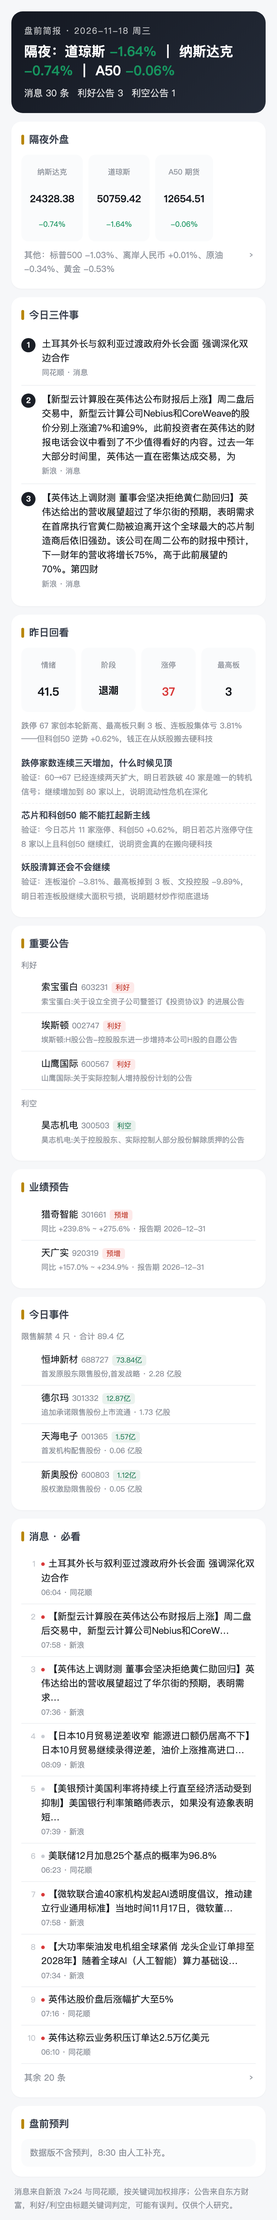
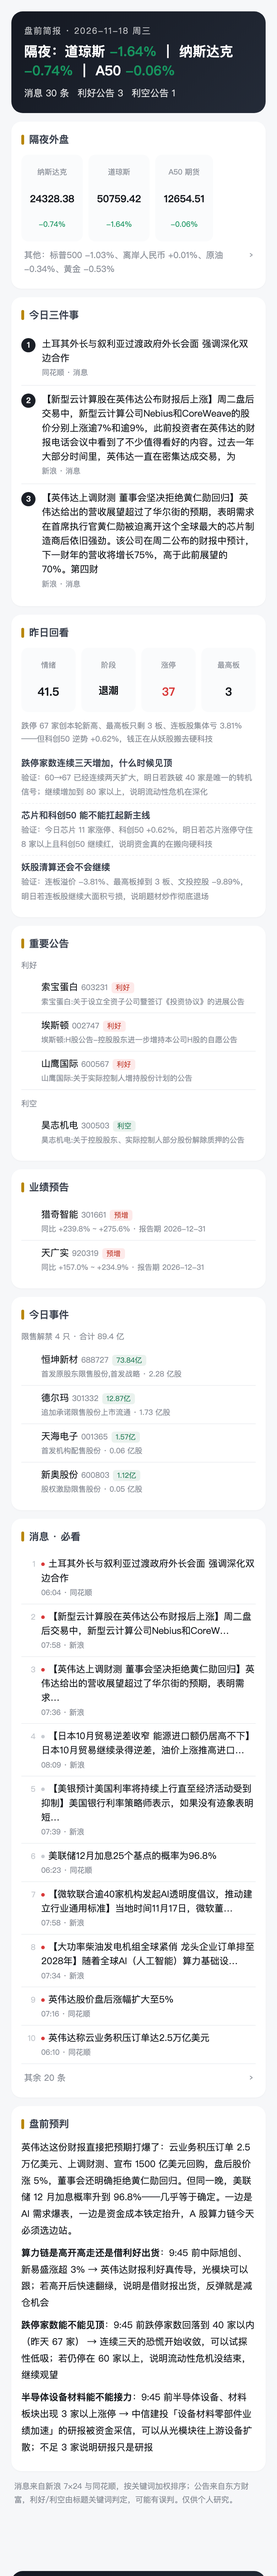
report: 2026-11-17

Changed region(s): [[0.0308, 0.0, 0.9538, 1.0], [0.5538, 0.5308, 0.6154, 0.562]]

diff --git a/pre/2026-11-18/2026-11-18-盘前.html b/pre/2026-11-18/2026-11-18-盘前.html
@@ -57,4 +57,4 @@ padding:9px 16px;font-size:12.5px;max-width:560px;margin:0 auto}
 .nav a{color:#8a8f98;text-decoration:none;white-space:nowrap}
 .nav a.on{color:#1b1f27;font-weight:700}
 .nav a.home{color:#b8860b;font-weight:600}
-</style><link rel="manifest" href="/a-share-review/manifest.webmanifest"><meta name="theme-color" content="#1b1f27"><meta name="apple-mobile-web-app-capable" content="yes"><meta name="apple-mobile-web-app-status-bar-style" content="black-translucent"><meta name="apple-mobile-web-app-title" content="A股复盘"><link rel="apple-touch-icon" href="/a-share-review/icon-192.png"></head><body><div class="nav"><a class="home" href="../../index.html">⌂ 首页</a><a class="on" href="../../pre/index.html">盘前简报</a></div><div class="wrap"><div class="hero"><div class="d">盘前简报 · 2026-11-18 周三</div><h1>隔夜：道琼斯 <b class="down">-1.64%</b> ｜ 纳斯达克 <b class="down">-0.74%</b> ｜ A50 <b class="down">-0.06%</b></h1><div class="sum"><span>消息 30 条</span><span>利好公告 3</span><span>利空公告 1</span></div></div><div class="card"><h2>隔夜外盘</h2><div class="ov"><div><div class="n">纳斯达克</div><div class="v">24328.38</div><div class="p down">-0.74%</div></div><div><div class="n">道琼斯</div><div class="v">50759.42</div><div class="p down">-1.64%</div></div><div><div class="n">A50 期货</div><div class="v">12654.51</div><div class="p down">-0.06%</div></div></div><details class="more"><summary><span>其他：标普500 -1.03%、离岸人民币 +0.01%、原油 -0.34%、黄金 -0.53%</span><span class="arw">›</span></summary><div class="ov" style="margin-top:8px"><div><div class="n">标普500</div><div class="v">7340.53</div><div class="p down">-1.03%</div></div><div><div class="n">离岸人民币</div><div class="v">6.67</div><div class="p up">+0.01%</div></div><div><div class="n">原油</div><div class="v">84.36</div><div class="p down">-0.34%</div></div><div><div class="n">黄金</div><div class="v">3843.55</div><div class="p down">-0.53%</div></div></div></details></div><div class="card"><h2>今日三件事</h2><div class="t3"><div class="n">1</div><div><div class="t">土耳其外长与叙利亚过渡政府外长会面 强调深化双边合作</div><div class="s">同花顺 · 消息</div></div></div><div class="t3"><div class="n">2</div><div><div class="t">【新型云计算股在英伟达公布财报后上涨】周二盘后交易中，新型云计算公司Nebius和CoreWeave的股价分别上涨逾7%和逾9%，此前投资者在英伟达的财报电话会议中看到了不少值得看好的内容。过去一年大部分时间里，英伟达一直在密集达成交易，为</div><div class="s">新浪 · 消息</div></div></div><div class="t3"><div class="n">3</div><div><div class="t">【英伟达上调财测 董事会坚决拒绝黄仁勋回归】英伟达给出的营收展望超过了华尔街的预期，表明需求在首席执行官黄仁勋被迫离开这个全球最大的芯片制造商后依旧强劲。该公司在周二公布的财报中预计，下一财年的营收将增长75%，高于此前展望的70%。第四财</div><div class="s">新浪 · 消息</div></div></div></div><div class="card"><h2>昨日回看</h2><div class="kv"><div><div class="n">情绪</div><div class="v">41.5</div></div><div><div class="n">阶段</div><div class="v" style="font-size:14px">退潮</div></div><div><div class="n">涨停</div><div class="v up">37</div></div><div><div class="n">最高板</div><div class="v">3</div></div></div><div class="note" style="margin-bottom:8px">跌停 67 家创本轮新高、最高板只剩 3 板、连板股集体亏 3.81%——但科创50 逆势 +0.62%，钱正在从妖股搬去硬科技</div><div class="watch"><b>跌停家数连续三天增加，什么时候见顶</b><br><span class="note">验证：60→67 已经连续两天扩大，明日若跌破 40 家是唯一的转机信号；继续增加到 80 家以上，说明流动性危机在深化</span></div><div class="watch"><b>芯片和科创50 能不能扛起新主线</b><br><span class="note">验证：今日芯片 11 家涨停、科创50 +0.62%，明日若芯片涨停守住 8 家以上且科创50 继续红，说明资金真的在搬向硬科技</span></div><div class="watch"><b>妖股清算还会不会继续</b><br><span class="note">验证：连板溢价 -3.81%、最高板掉到 3 板、文投控股 -9.89%，明日若连板股继续大面积亏损，说明题材炒作彻底退场</span></div></div><div class="card"><h2>重要公告</h2><div class="note" style="margin-bottom:4px">利好</div><div class="item"><div class="no"></div><div class="b"><div class="t">索宝蛋白 <span class="mut" style="font-size:11px">603231</span><span class="tag tag-good">利好</span></div><div class="m">索宝蛋白:关于设立全资子公司暨签订《投资协议》的进展公告</div></div></div><div class="item"><div class="no"></div><div class="b"><div class="t">埃斯顿 <span class="mut" style="font-size:11px">002747</span><span class="tag tag-good">利好</span></div><div class="m">埃斯顿:H股公告-控股股东进一步增持本公司H股的自愿公告</div></div></div><div class="item"><div class="no"></div><div class="b"><div class="t">山鹰国际 <span class="mut" style="font-size:11px">600567</span><span class="tag tag-good">利好</span></div><div class="m">山鹰国际:关于实际控制人增持股份计划的公告</div></div></div><div class="note" style="margin:10px 0 4px">利空</div><div class="item"><div class="no"></div><div class="b"><div class="t">昊志机电 <span class="mut" style="font-size:11px">300503</span><span class="tag tag-bad">利空</span></div><div class="m">昊志机电:关于控股股东、实际控制人部分股份解除质押的公告</div></div></div></div><div class="card"><h2>业绩预告</h2><div class="item"><div class="no"></div><div class="b"><div class="t">猎奇智能 <span class="mut" style="font-size:11px">301661</span><span class="tag tag-good">预增</span></div><div class="m">同比 +239.8% ~ +275.6% · 报告期 2026-12-31</div></div></div><div class="item"><div class="no"></div><div class="b"><div class="t">天广实 <span class="mut" style="font-size:11px">920319</span><span class="tag tag-good">预增</span></div><div class="m">同比 +157.0% ~ +234.9% · 报告期 2026-12-31</div></div></div></div><div class="card"><h2>今日事件</h2><div class="note" style="margin-bottom:6px">限售解禁 4 只 · 合计 89.4 亿</div><div class="item"><div class="no"></div><div class="b"><div class="t">恒坤新材 <span class="mut" style="font-size:11px">688727</span><span class="tag tag-bad">73.84亿</span></div><div class="m">首发原股东限售股份,首发战略 · 2.28 亿股</div></div></div><div class="item"><div class="no"></div><div class="b"><div class="t">德尔玛 <span class="mut" style="font-size:11px">301332</span><span class="tag tag-bad">12.87亿</span></div><div class="m">追加承诺限售股份上市流通 · 1.73 亿股</div></div></div><div class="item"><div class="no"></div><div class="b"><div class="t">天海电子 <span class="mut" style="font-size:11px">001365</span><span class="tag tag-bad">1.57亿</span></div><div class="m">首发机构配售股份 · 0.06 亿股</div></div></div><div class="item"><div class="no"></div><div class="b"><div class="t">新奥股份 <span class="mut" style="font-size:11px">600803</span><span class="tag tag-bad">1.12亿</span></div><div class="m">股权激励限售股份 · 0.05 亿股</div></div></div></div><div class="card"><h2>消息 · 必看</h2><div class="item"><div class="no">1</div><div class="b"><div class="t"><span class="dot g"></span>土耳其外长与叙利亚过渡政府外长会面 强调深化双边合作</div><div class="m">06:04 · 同花顺</div></div></div><div class="item"><div class="no">2</div><div class="b"><div class="t"><span class="dot g"></span>【新型云计算股在英伟达公布财报后上涨】周二盘后交易中，新型云计算公司Nebius和CoreW…</div><div class="m">07:58 · 新浪</div></div></div><div class="item"><div class="no">3</div><div class="b"><div class="t"><span class="dot g"></span>【英伟达上调财测 董事会坚决拒绝黄仁勋回归】英伟达给出的营收展望超过了华尔街的预期，表明需求…</div><div class="m">07:36 · 新浪</div></div></div><div class="item"><div class="no">4</div><div class="b"><div class="t"><span class="dot n"></span>【日本10月贸易逆差收窄 能源进口额仍居高不下】日本10月贸易继续录得逆差，油价上涨推高进口…</div><div class="m">08:09 · 新浪</div></div></div><div class="item"><div class="no">5</div><div class="b"><div class="t"><span class="dot n"></span>【美银预计美国利率将持续上行直至经济活动受到抑制】美国银行利率策略师表示，如果没有迹象表明短…</div><div class="m">07:39 · 新浪</div></div></div><div class="item"><div class="no">6</div><div class="b"><div class="t"><span class="dot n"></span>美联储12月加息25个基点的概率为96.8%</div><div class="m">06:23 · 同花顺</div></div></div><div class="item"><div class="no">7</div><div class="b"><div class="t"><span class="dot g"></span>【微软联合逾40家机构发起AI透明度倡议，推动建立行业通用标准】当地时间11月17日，微软董…</div><div class="m">07:58 · 新浪</div></div></div><div class="item"><div class="no">8</div><div class="b"><div class="t"><span class="dot g"></span>【大功率柴油发电机组全球紧俏 龙头企业订单排至2028年】随着全球AI（人工智能）算力基础设…</div><div class="m">07:34 · 新浪</div></div></div><div class="item"><div class="no">9</div><div class="b"><div class="t"><span class="dot g"></span>英伟达股价盘后涨幅扩大至5%</div><div class="m">07:16 · 同花顺</div></div></div><div class="item"><div class="no">10</div><div class="b"><div class="t"><span class="dot g"></span>英伟达称云业务积压订单达2.5万亿美元</div><div class="m">06:10 · 同花顺</div></div></div><details class="more"><summary><span>其余 20 条</span><span class="arw">›</span></summary><div class="item"><div class="no">11</div><div class="b"><div class="t"><span class="dot g"></span>英伟达董事会批准增加1500亿美元股票回购计划</div><div class="m">05:29 · 同花顺</div></div></div><div class="item"><div class="no">12</div><div class="b"><div class="t"><span class="dot b2"></span>【中信建投：半导体设备、材料、零部件板块业绩有望加速】中信建投研报称，2026年前三季度电子…</div><div class="m">07:47 · 新浪 · 同源 3 条</div></div></div><div class="item"><div class="no">13</div><div class="b"><div class="t"><span class="dot n"></span>【微软CEO盛赞黄仁勋，回应大规模服务中断和员工买断计划】微软CEO萨蒂亚·纳德拉在周二一次…</div><div class="m">08:19 · 新浪</div></div></div><div class="item"><div class="no">14</div><div class="b"><div class="t"><span class="dot n"></span>【阿波罗CEO警告：新云公司融资渠道或&quot;消失&quot;】阿波罗全球管理CEO马克·罗恩（Marc R…</div><div class="m">08:19 · 新浪</div></div></div><div class="item"><div class="no">15</div><div class="b"><div class="t"><span class="dot n"></span>韩国KOSPI上涨3.3%，英伟达业绩推动芯片股走强。</div><div class="m">08:15 · 新浪</div></div></div><div class="item"><div class="no">16</div><div class="b"><div class="t"><span class="dot n"></span>【英伟达财务担保和供应承诺大幅增加】英伟达表示，过去三个月，为确保其芯片所需的存储芯片和其他…</div><div class="m">07:29 · 新浪</div></div></div><div class="item"><div class="no">17</div><div class="b"><div class="t"><span class="dot n"></span>英伟达：主要前沿人工智能实验室今年预计将贡献公司数据中心业务营收的约15%</div><div class="m">06:21 · 同花顺 · 同源 4 条</div></div></div><div class="item"><div class="no">18</div><div class="b"><div class="t"><span class="dot n"></span>英伟达财报带动美股AI硬件板块盘后走高</div><div class="m">05:50 · 同花顺</div></div></div><div class="item"><div class="no">19</div><div class="b"><div class="t"><span class="dot n"></span>美股AI新云（Neocloud）公司CoreWeave、Nebius盘后均涨超5%</div><div class="m">05:42 · 同花顺</div></div></div><div class="item"><div class="no">20</div><div class="b"><div class="t"><span class="dot n"></span>美股收评：美股三大指数集体收跌 光通信股逆势小幅上扬</div><div class="m">05:01 · 同花顺</div></div></div><div class="item"><div class="no">21</div><div class="b"><div class="t"><span class="dot g"></span>【和铂医药：CRHX-101项目分拆至Adrenyx，后者预期2027年上半年在纳斯达克上市…</div><div class="m">08:17 · 新浪</div></div></div><div class="item"><div class="no">22</div><div class="b"><div class="t"><span class="dot b2"></span>【花旗集团与一名董事总经理就纵容性骚扰指控达成和解】花旗集团与一名董事总经理就一宗备受关注的…</div><div class="m">07:49 · 新浪</div></div></div><div class="item"><div class="no">23</div><div class="b"><div class="t"><span class="dot g"></span>【高盛预计明年新兴市场债券总回报将达10%】高盛预测，2027年新兴市场固定收益资产将实现约…</div><div class="m">07:44 · 新浪 · 同源 2 条</div></div></div><div class="item"><div class="no">24</div><div class="b"><div class="t"><span class="dot g"></span>【新加坡总理黄循财人民日报撰文：新中携手，共创开放互联的未来】当今世界局势充满不确定性，分化…</div><div class="m">07:33 · 新浪</div></div></div><div class="item"><div class="no">25</div><div class="b"><div class="t"><span class="dot g"></span>上市公募REITs“破百”近在咫尺 行业迎来提质深耕窗口期</div><div class="m">06:43 · 同花顺</div></div></div><div class="item"><div class="no">26</div><div class="b"><div class="t"><span class="dot n"></span>【华泰证券：互联网行业关注纯工具类平台和硬切软逻辑】华泰证券发布互联网行业研报称，互联网行业…</div><div class="m">08:16 · 新浪 · 同源 2 条</div></div></div><div class="item"><div class="no">27</div><div class="b"><div class="t"><span class="dot n"></span>SK海力士领涨韩国芯片股。SK海力士股价早盘上涨5.7%，报1,161,000韩元。三星电子…</div><div class="m">08:08 · 新浪</div></div></div><div class="item"><div class="no">28</div><div class="b"><div class="t"><span class="dot n"></span>【OpenAI发布GPT-6.2 Astra和Sol，强化专业工作与日常任务能力】当地时间1…</div><div class="m">07:44 · 新浪</div></div></div><div class="item"><div class="no">29</div><div class="b"><div class="t"><span class="dot n"></span>英伟达临时CEO克雷斯：我们现在想的是发展我们的业务。</div><div class="m">07:49 · 新浪 · 同源 5 条</div></div></div><div class="item"><div class="no">30</div><div class="b"><div class="t"><span class="dot n"></span>英伟达临时首席执行官：客户们未离弃公司。任何类型的客户都在发生变化的说法是不真实的。</div><div class="m">07:46 · 新浪</div></div></div></details></div><div class="card"><h2>盘前预判</h2><div class="empty">数据版不含预判，8:30 由人工补充。</div></div><div class="note" style="padding:0 4px">消息来自新浪 7×24 与同花顺，按关键词加权排序；公告来自东方财富，利好/利空由标题关键词判定，可能有误判。仅供个人研究。</div></div></body></html>
+</style><link rel="manifest" href="/a-share-review/manifest.webmanifest"><meta name="theme-color" content="#1b1f27"><meta name="apple-mobile-web-app-capable" content="yes"><meta name="apple-mobile-web-app-status-bar-style" content="black-translucent"><meta name="apple-mobile-web-app-title" content="A股复盘"><link rel="apple-touch-icon" href="/a-share-review/icon-192.png"></head><body><div class="nav"><a class="home" href="../../index.html">⌂ 首页</a><a class="on" href="../../pre/index.html">盘前简报</a></div><div class="wrap"><div class="hero"><div class="d">盘前简报 · 2026-11-18 周三</div><h1>隔夜：道琼斯 <b class="down">-1.64%</b> ｜ 纳斯达克 <b class="down">-0.74%</b> ｜ A50 <b class="down">-0.06%</b></h1><div class="sum"><span>消息 30 条</span><span>利好公告 3</span><span>利空公告 1</span></div></div><div class="card"><h2>隔夜外盘</h2><div class="ov"><div><div class="n">纳斯达克</div><div class="v">24328.38</div><div class="p down">-0.74%</div></div><div><div class="n">道琼斯</div><div class="v">50759.42</div><div class="p down">-1.64%</div></div><div><div class="n">A50 期货</div><div class="v">12654.51</div><div class="p down">-0.06%</div></div></div><details class="more"><summary><span>其他：标普500 -1.03%、离岸人民币 +0.01%、原油 -0.34%、黄金 -0.53%</span><span class="arw">›</span></summary><div class="ov" style="margin-top:8px"><div><div class="n">标普500</div><div class="v">7340.53</div><div class="p down">-1.03%</div></div><div><div class="n">离岸人民币</div><div class="v">6.67</div><div class="p up">+0.01%</div></div><div><div class="n">原油</div><div class="v">84.36</div><div class="p down">-0.34%</div></div><div><div class="n">黄金</div><div class="v">3843.55</div><div class="p down">-0.53%</div></div></div></details></div><div class="card"><h2>今日三件事</h2><div class="t3"><div class="n">1</div><div><div class="t">土耳其外长与叙利亚过渡政府外长会面 强调深化双边合作</div><div class="s">同花顺 · 消息</div></div></div><div class="t3"><div class="n">2</div><div><div class="t">【新型云计算股在英伟达公布财报后上涨】周二盘后交易中，新型云计算公司Nebius和CoreWeave的股价分别上涨逾7%和逾9%，此前投资者在英伟达的财报电话会议中看到了不少值得看好的内容。过去一年大部分时间里，英伟达一直在密集达成交易，为</div><div class="s">新浪 · 消息</div></div></div><div class="t3"><div class="n">3</div><div><div class="t">【英伟达上调财测 董事会坚决拒绝黄仁勋回归】英伟达给出的营收展望超过了华尔街的预期，表明需求在首席执行官黄仁勋被迫离开这个全球最大的芯片制造商后依旧强劲。该公司在周二公布的财报中预计，下一财年的营收将增长75%，高于此前展望的70%。第四财</div><div class="s">新浪 · 消息</div></div></div></div><div class="card"><h2>昨日回看</h2><div class="kv"><div><div class="n">情绪</div><div class="v">41.5</div></div><div><div class="n">阶段</div><div class="v" style="font-size:14px">退潮</div></div><div><div class="n">涨停</div><div class="v up">37</div></div><div><div class="n">最高板</div><div class="v">3</div></div></div><div class="note" style="margin-bottom:8px">跌停 67 家创本轮新高、最高板只剩 3 板、连板股集体亏 3.81%——但科创50 逆势 +0.62%，钱正在从妖股搬去硬科技</div><div class="watch"><b>跌停家数连续三天增加，什么时候见顶</b><br><span class="note">验证：60→67 已经连续两天扩大，明日若跌破 40 家是唯一的转机信号；继续增加到 80 家以上，说明流动性危机在深化</span></div><div class="watch"><b>芯片和科创50 能不能扛起新主线</b><br><span class="note">验证：今日芯片 11 家涨停、科创50 +0.62%，明日若芯片涨停守住 8 家以上且科创50 继续红，说明资金真的在搬向硬科技</span></div><div class="watch"><b>妖股清算还会不会继续</b><br><span class="note">验证：连板溢价 -3.81%、最高板掉到 3 板、文投控股 -9.89%，明日若连板股继续大面积亏损，说明题材炒作彻底退场</span></div></div><div class="card"><h2>重要公告</h2><div class="note" style="margin-bottom:4px">利好</div><div class="item"><div class="no"></div><div class="b"><div class="t">索宝蛋白 <span class="mut" style="font-size:11px">603231</span><span class="tag tag-good">利好</span></div><div class="m">索宝蛋白:关于设立全资子公司暨签订《投资协议》的进展公告</div></div></div><div class="item"><div class="no"></div><div class="b"><div class="t">埃斯顿 <span class="mut" style="font-size:11px">002747</span><span class="tag tag-good">利好</span></div><div class="m">埃斯顿:H股公告-控股股东进一步增持本公司H股的自愿公告</div></div></div><div class="item"><div class="no"></div><div class="b"><div class="t">山鹰国际 <span class="mut" style="font-size:11px">600567</span><span class="tag tag-good">利好</span></div><div class="m">山鹰国际:关于实际控制人增持股份计划的公告</div></div></div><div class="note" style="margin:10px 0 4px">利空</div><div class="item"><div class="no"></div><div class="b"><div class="t">昊志机电 <span class="mut" style="font-size:11px">300503</span><span class="tag tag-bad">利空</span></div><div class="m">昊志机电:关于控股股东、实际控制人部分股份解除质押的公告</div></div></div></div><div class="card"><h2>业绩预告</h2><div class="item"><div class="no"></div><div class="b"><div class="t">猎奇智能 <span class="mut" style="font-size:11px">301661</span><span class="tag tag-good">预增</span></div><div class="m">同比 +239.8% ~ +275.6% · 报告期 2026-12-31</div></div></div><div class="item"><div class="no"></div><div class="b"><div class="t">天广实 <span class="mut" style="font-size:11px">920319</span><span class="tag tag-good">预增</span></div><div class="m">同比 +157.0% ~ +234.9% · 报告期 2026-12-31</div></div></div></div><div class="card"><h2>今日事件</h2><div class="note" style="margin-bottom:6px">限售解禁 4 只 · 合计 89.4 亿</div><div class="item"><div class="no"></div><div class="b"><div class="t">恒坤新材 <span class="mut" style="font-size:11px">688727</span><span class="tag tag-bad">73.84亿</span></div><div class="m">首发原股东限售股份,首发战略 · 2.28 亿股</div></div></div><div class="item"><div class="no"></div><div class="b"><div class="t">德尔玛 <span class="mut" style="font-size:11px">301332</span><span class="tag tag-bad">12.87亿</span></div><div class="m">追加承诺限售股份上市流通 · 1.73 亿股</div></div></div><div class="item"><div class="no"></div><div class="b"><div class="t">天海电子 <span class="mut" style="font-size:11px">001365</span><span class="tag tag-bad">1.57亿</span></div><div class="m">首发机构配售股份 · 0.06 亿股</div></div></div><div class="item"><div class="no"></div><div class="b"><div class="t">新奥股份 <span class="mut" style="font-size:11px">600803</span><span class="tag tag-bad">1.12亿</span></div><div class="m">股权激励限售股份 · 0.05 亿股</div></div></div></div><div class="card"><h2>消息 · 必看</h2><div class="item"><div class="no">1</div><div class="b"><div class="t"><span class="dot g"></span>土耳其外长与叙利亚过渡政府外长会面 强调深化双边合作</div><div class="m">06:04 · 同花顺</div></div></div><div class="item"><div class="no">2</div><div class="b"><div class="t"><span class="dot g"></span>【新型云计算股在英伟达公布财报后上涨】周二盘后交易中，新型云计算公司Nebius和CoreW…</div><div class="m">07:58 · 新浪</div></div></div><div class="item"><div class="no">3</div><div class="b"><div class="t"><span class="dot g"></span>【英伟达上调财测 董事会坚决拒绝黄仁勋回归】英伟达给出的营收展望超过了华尔街的预期，表明需求…</div><div class="m">07:36 · 新浪</div></div></div><div class="item"><div class="no">4</div><div class="b"><div class="t"><span class="dot n"></span>【日本10月贸易逆差收窄 能源进口额仍居高不下】日本10月贸易继续录得逆差，油价上涨推高进口…</div><div class="m">08:09 · 新浪</div></div></div><div class="item"><div class="no">5</div><div class="b"><div class="t"><span class="dot n"></span>【美银预计美国利率将持续上行直至经济活动受到抑制】美国银行利率策略师表示，如果没有迹象表明短…</div><div class="m">07:39 · 新浪</div></div></div><div class="item"><div class="no">6</div><div class="b"><div class="t"><span class="dot n"></span>美联储12月加息25个基点的概率为96.8%</div><div class="m">06:23 · 同花顺</div></div></div><div class="item"><div class="no">7</div><div class="b"><div class="t"><span class="dot g"></span>【微软联合逾40家机构发起AI透明度倡议，推动建立行业通用标准】当地时间11月17日，微软董…</div><div class="m">07:58 · 新浪</div></div></div><div class="item"><div class="no">8</div><div class="b"><div class="t"><span class="dot g"></span>【大功率柴油发电机组全球紧俏 龙头企业订单排至2028年】随着全球AI（人工智能）算力基础设…</div><div class="m">07:34 · 新浪</div></div></div><div class="item"><div class="no">9</div><div class="b"><div class="t"><span class="dot g"></span>英伟达股价盘后涨幅扩大至5%</div><div class="m">07:16 · 同花顺</div></div></div><div class="item"><div class="no">10</div><div class="b"><div class="t"><span class="dot g"></span>英伟达称云业务积压订单达2.5万亿美元</div><div class="m">06:10 · 同花顺</div></div></div><details class="more"><summary><span>其余 20 条</span><span class="arw">›</span></summary><div class="item"><div class="no">11</div><div class="b"><div class="t"><span class="dot g"></span>英伟达董事会批准增加1500亿美元股票回购计划</div><div class="m">05:29 · 同花顺</div></div></div><div class="item"><div class="no">12</div><div class="b"><div class="t"><span class="dot b2"></span>【中信建投：半导体设备、材料、零部件板块业绩有望加速】中信建投研报称，2026年前三季度电子…</div><div class="m">07:47 · 新浪 · 同源 3 条</div></div></div><div class="item"><div class="no">13</div><div class="b"><div class="t"><span class="dot n"></span>【微软CEO盛赞黄仁勋，回应大规模服务中断和员工买断计划】微软CEO萨蒂亚·纳德拉在周二一次…</div><div class="m">08:19 · 新浪</div></div></div><div class="item"><div class="no">14</div><div class="b"><div class="t"><span class="dot n"></span>【阿波罗CEO警告：新云公司融资渠道或&quot;消失&quot;】阿波罗全球管理CEO马克·罗恩（Marc R…</div><div class="m">08:19 · 新浪</div></div></div><div class="item"><div class="no">15</div><div class="b"><div class="t"><span class="dot n"></span>韩国KOSPI上涨3.3%，英伟达业绩推动芯片股走强。</div><div class="m">08:15 · 新浪</div></div></div><div class="item"><div class="no">16</div><div class="b"><div class="t"><span class="dot n"></span>【英伟达财务担保和供应承诺大幅增加】英伟达表示，过去三个月，为确保其芯片所需的存储芯片和其他…</div><div class="m">07:29 · 新浪</div></div></div><div class="item"><div class="no">17</div><div class="b"><div class="t"><span class="dot n"></span>英伟达：主要前沿人工智能实验室今年预计将贡献公司数据中心业务营收的约15%</div><div class="m">06:21 · 同花顺 · 同源 4 条</div></div></div><div class="item"><div class="no">18</div><div class="b"><div class="t"><span class="dot n"></span>英伟达财报带动美股AI硬件板块盘后走高</div><div class="m">05:50 · 同花顺</div></div></div><div class="item"><div class="no">19</div><div class="b"><div class="t"><span class="dot n"></span>美股AI新云（Neocloud）公司CoreWeave、Nebius盘后均涨超5%</div><div class="m">05:42 · 同花顺</div></div></div><div class="item"><div class="no">20</div><div class="b"><div class="t"><span class="dot n"></span>美股收评：美股三大指数集体收跌 光通信股逆势小幅上扬</div><div class="m">05:01 · 同花顺</div></div></div><div class="item"><div class="no">21</div><div class="b"><div class="t"><span class="dot g"></span>【和铂医药：CRHX-101项目分拆至Adrenyx，后者预期2027年上半年在纳斯达克上市…</div><div class="m">08:17 · 新浪</div></div></div><div class="item"><div class="no">22</div><div class="b"><div class="t"><span class="dot b2"></span>【花旗集团与一名董事总经理就纵容性骚扰指控达成和解】花旗集团与一名董事总经理就一宗备受关注的…</div><div class="m">07:49 · 新浪</div></div></div><div class="item"><div class="no">23</div><div class="b"><div class="t"><span class="dot g"></span>【高盛预计明年新兴市场债券总回报将达10%】高盛预测，2027年新兴市场固定收益资产将实现约…</div><div class="m">07:44 · 新浪 · 同源 2 条</div></div></div><div class="item"><div class="no">24</div><div class="b"><div class="t"><span class="dot g"></span>【新加坡总理黄循财人民日报撰文：新中携手，共创开放互联的未来】当今世界局势充满不确定性，分化…</div><div class="m">07:33 · 新浪</div></div></div><div class="item"><div class="no">25</div><div class="b"><div class="t"><span class="dot g"></span>上市公募REITs“破百”近在咫尺 行业迎来提质深耕窗口期</div><div class="m">06:43 · 同花顺</div></div></div><div class="item"><div class="no">26</div><div class="b"><div class="t"><span class="dot n"></span>【华泰证券：互联网行业关注纯工具类平台和硬切软逻辑】华泰证券发布互联网行业研报称，互联网行业…</div><div class="m">08:16 · 新浪 · 同源 2 条</div></div></div><div class="item"><div class="no">27</div><div class="b"><div class="t"><span class="dot n"></span>SK海力士领涨韩国芯片股。SK海力士股价早盘上涨5.7%，报1,161,000韩元。三星电子…</div><div class="m">08:08 · 新浪</div></div></div><div class="item"><div class="no">28</div><div class="b"><div class="t"><span class="dot n"></span>【OpenAI发布GPT-6.2 Astra和Sol，强化专业工作与日常任务能力】当地时间1…</div><div class="m">07:44 · 新浪</div></div></div><div class="item"><div class="no">29</div><div class="b"><div class="t"><span class="dot n"></span>英伟达临时CEO克雷斯：我们现在想的是发展我们的业务。</div><div class="m">07:49 · 新浪 · 同源 5 条</div></div></div><div class="item"><div class="no">30</div><div class="b"><div class="t"><span class="dot n"></span>英伟达临时首席执行官：客户们未离弃公司。任何类型的客户都在发生变化的说法是不真实的。</div><div class="m">07:46 · 新浪</div></div></div></details></div><div class="card"><h2>盘前预判</h2><div class="jd"><p>英伟达这份财报直接把预期打爆了：云业务积压订单 2.5 万亿美元、上调财测、宣布 1500 亿美元回购，盘后股价涨 5%，董事会还明确拒绝黄仁勋回归。但同一晚，美联储 12 月加息概率升到 96.8%——几乎等于确定。一边是 AI 需求爆表，一边是资金成本铁定抬升，A 股算力链今天必须选边站。</p><p><b>算力链是高开高走还是借利好出货</b>：9:45 前中际旭创、新易盛涨超 3% → 英伟达财报利好真传导，光模块可以跟；若高开后快速翻绿，说明是借财报出货，反弹就是减仓机会</p><p><b>跌停家数能不能见顶</b>：9:45 前跌停家数回落到 40 家以内（昨天 67 家） → 连续三天的恐慌开始收敛，可以试探性低吸；若仍停在 60 家以上，说明流动性危机没结束，继续观望</p><p><b>半导体设备材料能不能接力</b>：9:45 前半导体设备、材料板块出现 3 家以上涨停 → 中信建投「设备材料零部件业绩加速」的研报被资金采信，可以从光模块往上游设备扩散；不足 3 家说明研报只是研报</p></div></div><div class="note" style="padding:0 4px">消息来自新浪 7×24 与同花顺，按关键词加权排序；公告来自东方财富，利好/利空由标题关键词判定，可能有误判。仅供个人研究。</div></div></body></html>

diff --git a/pre/index.html b/pre/index.html
@@ -47,6 +47,6 @@ padding-bottom:env(safe-area-inset-bottom)}
 .tabbar a.on::after{content:"";display:block;width:18px;height:2.5px;border-radius:2px;background:var(--gold);margin:5px auto 0}
 </style><link rel="manifest" href="/a-share-review/manifest.webmanifest"><meta name="theme-color" content="#1b1f27"><meta name="apple-mobile-web-app-capable" content="yes"><meta name="apple-mobile-web-app-status-bar-style" content="black-translucent"><meta name="apple-mobile-web-app-title" content="A股复盘"><link rel="apple-touch-icon" href="/a-share-review/icon-192.png"></head><body><div class="wrap">
 <div class="head"><h1>盘前简报</h1><div class="sub">共 13 篇 · 交易日 08:20</div></div>
-<a class="hero" href="2026-11-18/2026-11-18-盘前.html?v=1794961209"><div class="ht">最新盘前 · 2026-11-18</div><div class="hrow"><div><div class="hn">纳指</div><div class="hv down">-0.74%</div></div><div><div class="hn">道指</div><div class="hv down">-1.64%</div></div><div><div class="hn">A50</div><div class="hv down">-0.06%</div></div><div><div class="hn">消息</div><div class="hv">30</div></div></div><div class="hb">点开看完整盘前简报 →</div></a>
-<details class="month" open><summary><span><b>2026-11</b>　13 篇</span><span class="arw">›</span></summary><div class="list"><a class="row" href="2026-11-18/2026-11-18-盘前.html?v=1794961209"><div class="rl"><div class="rd">11-18</div><div class="rw">周三</div></div><div class="rm"><span class="k down">纳指 -0.74%</span><span class="k2">30 条消息</span></div></a><a class="row" href="2026-11-17/2026-11-17-盘前.html?v=1794875413"><div class="rl"><div class="rd">11-17</div><div class="rw">周二</div></div><div class="rm"><span class="k down">纳指 -2.49%</span><span class="k2">30 条消息</span><span class="tag2">预判</span></div></a><a class="row" href="2026-11-16/2026-11-16-盘前.html?v=1794789015"><div class="rl"><div class="rd">11-16</div><div class="rw">周一</div></div><div class="rm"><span class="k down">纳指 -0.91%</span><span class="k2">30 条消息</span><span class="tag2">预判</span></div></a><a class="row" href="2026-11-13/2026-11-13-盘前.html?v=1794529811"><div class="rl"><div class="rd">11-13</div><div class="rw">周五</div></div><div class="rm"><span class="k down">纳指 -0.39%</span><span class="k2">30 条消息</span><span class="tag2">预判</span></div></a><a class="row" href="2026-11-12/2026-11-12-盘前.html?v=1794443410"><div class="rl"><div class="rd">11-12</div><div class="rw">周四</div></div><div class="rm"><span class="k up">纳指 +1.60%</span><span class="k2">30 条消息</span><span class="tag2">预判</span></div></a><a class="row" href="2026-11-11/2026-11-11-盘前.html?v=1794357010"><div class="rl"><div class="rd">11-11</div><div class="rw">周三</div></div><div class="rm"><span class="k down">纳指 -0.74%</span><span class="k2">30 条消息</span><span class="tag2">预判</span></div></a><a class="row" href="2026-11-10/2026-11-10-盘前.html?v=1794270612"><div class="rl"><div class="rd">11-10</div><div class="rw">周二</div></div><div class="rm"><span class="k up">纳指 +2.74%</span><span class="k2">30 条消息</span><span class="tag2">预判</span></div></a><a class="row" href="2026-11-09/2026-11-09-盘前.html?v=1794194683"><div class="rl"><div class="rd">11-09</div><div class="rw">周一</div></div><div class="rm"><span class="k up">纳指 +1.09%</span><span class="k2">30 条消息</span><span class="tag2">预判</span></div></a><a class="row" href="2026-11-06/2026-11-06-盘前.html?v=1793928167"><div class="rl"><div class="rd">11-06</div><div class="rw">周五</div></div><div class="rm"><span class="k down">纳指 -5.52%</span><span class="k2">30 条消息</span><span class="tag2">预判</span></div></a><a class="row" href="2026-11-05/2026-11-05-盘前.html?v=1793928167"><div class="rl"><div class="rd">11-05</div><div class="rw">周四</div></div><div class="rm"><span class="k up">纳指 +1.44%</span><span class="k2">18 条消息</span><span class="tag2">预判</span></div></a><a class="row" href="2026-11-04/2026-11-04-盘前.html?v=1793928167"><div class="rl"><div class="rd">11-04</div><div class="rw">周三</div></div><div class="rm"><span class="k up">纳指 +0.83%</span><span class="k2">30 条消息</span><span class="tag2">预判</span></div></a><a class="row" href="2026-11-03/2026-11-03-盘前.html?v=1793928166"><div class="rl"><div class="rd">11-03</div><div class="rw">周二</div></div><div class="rm"><span class="k down">纳指 -1.07%</span><span class="k2">30 条消息</span><span class="tag2">预判</span></div></a><a class="row" href="2026-11-02/2026-11-02-盘前.html?v=1793928166"><div class="rl"><div class="rd">11-02</div><div class="rw">周一</div></div><div class="rm"><span class="k down">纳指 -2.86%</span><span class="k2">30 条消息</span></div></a></div></details>
+<a class="hero" href="2026-11-18/2026-11-18-盘前.html?v=1794961810"><div class="ht">最新盘前 · 2026-11-18</div><div class="hrow"><div><div class="hn">纳指</div><div class="hv down">-0.74%</div></div><div><div class="hn">道指</div><div class="hv down">-1.64%</div></div><div><div class="hn">A50</div><div class="hv down">-0.06%</div></div><div><div class="hn">消息</div><div class="hv">30</div></div></div><div class="hj">英伟达这份财报直接把预期打爆了：云业务积压订单 2.5 万亿美元、上调财测、宣布 1500 亿美元回购，盘后股价涨 5%</div><div class="hb">点开看完整盘前简报 →</div></a>
+<details class="month" open><summary><span><b>2026-11</b>　13 篇</span><span class="arw">›</span></summary><div class="list"><a class="row" href="2026-11-18/2026-11-18-盘前.html?v=1794961810"><div class="rl"><div class="rd">11-18</div><div class="rw">周三</div></div><div class="rm"><span class="k down">纳指 -0.74%</span><span class="k2">30 条消息</span><span class="tag2">预判</span></div></a><a class="row" href="2026-11-17/2026-11-17-盘前.html?v=1794875413"><div class="rl"><div class="rd">11-17</div><div class="rw">周二</div></div><div class="rm"><span class="k down">纳指 -2.49%</span><span class="k2">30 条消息</span><span class="tag2">预判</span></div></a><a class="row" href="2026-11-16/2026-11-16-盘前.html?v=1794789015"><div class="rl"><div class="rd">11-16</div><div class="rw">周一</div></div><div class="rm"><span class="k down">纳指 -0.91%</span><span class="k2">30 条消息</span><span class="tag2">预判</span></div></a><a class="row" href="2026-11-13/2026-11-13-盘前.html?v=1794529811"><div class="rl"><div class="rd">11-13</div><div class="rw">周五</div></div><div class="rm"><span class="k down">纳指 -0.39%</span><span class="k2">30 条消息</span><span class="tag2">预判</span></div></a><a class="row" href="2026-11-12/2026-11-12-盘前.html?v=1794443410"><div class="rl"><div class="rd">11-12</div><div class="rw">周四</div></div><div class="rm"><span class="k up">纳指 +1.60%</span><span class="k2">30 条消息</span><span class="tag2">预判</span></div></a><a class="row" href="2026-11-11/2026-11-11-盘前.html?v=1794357010"><div class="rl"><div class="rd">11-11</div><div class="rw">周三</div></div><div class="rm"><span class="k down">纳指 -0.74%</span><span class="k2">30 条消息</span><span class="tag2">预判</span></div></a><a class="row" href="2026-11-10/2026-11-10-盘前.html?v=1794270612"><div class="rl"><div class="rd">11-10</div><div class="rw">周二</div></div><div class="rm"><span class="k up">纳指 +2.74%</span><span class="k2">30 条消息</span><span class="tag2">预判</span></div></a><a class="row" href="2026-11-09/2026-11-09-盘前.html?v=1794194683"><div class="rl"><div class="rd">11-09</div><div class="rw">周一</div></div><div class="rm"><span class="k up">纳指 +1.09%</span><span class="k2">30 条消息</span><span class="tag2">预判</span></div></a><a class="row" href="2026-11-06/2026-11-06-盘前.html?v=1793928167"><div class="rl"><div class="rd">11-06</div><div class="rw">周五</div></div><div class="rm"><span class="k down">纳指 -5.52%</span><span class="k2">30 条消息</span><span class="tag2">预判</span></div></a><a class="row" href="2026-11-05/2026-11-05-盘前.html?v=1793928167"><div class="rl"><div class="rd">11-05</div><div class="rw">周四</div></div><div class="rm"><span class="k up">纳指 +1.44%</span><span class="k2">18 条消息</span><span class="tag2">预判</span></div></a><a class="row" href="2026-11-04/2026-11-04-盘前.html?v=1793928167"><div class="rl"><div class="rd">11-04</div><div class="rw">周三</div></div><div class="rm"><span class="k up">纳指 +0.83%</span><span class="k2">30 条消息</span><span class="tag2">预判</span></div></a><a class="row" href="2026-11-03/2026-11-03-盘前.html?v=1793928166"><div class="rl"><div class="rd">11-03</div><div class="rw">周二</div></div><div class="rm"><span class="k down">纳指 -1.07%</span><span class="k2">30 条消息</span><span class="tag2">预判</span></div></a><a class="row" href="2026-11-02/2026-11-02-盘前.html?v=1793928166"><div class="rl"><div class="rd">11-02</div><div class="rw">周一</div></div><div class="rm"><span class="k down">纳指 -2.86%</span><span class="k2">30 条消息</span></div></a></div></details>
 </div><div class="tabbar"><a href="../index.html">每日复盘</a><a href="index.html" class="on">盘前简报</a><a href="../earn/index.html">业绩追踪</a></div></body></html>

diff --git a/index.html b/index.html
@@ -204,7 +204,7 @@ padding-bottom:env(safe-area-inset-bottom)}
   </div>
 </a></div></details>
 <div class="foot">数据与判断仅供个人研究，不构成投资建议<br>
-生成于 2026-11-18 08:20</div>
+生成于 2026-11-18 08:30</div>
 <div class="tabbar"><a href="index.html" class="on">每日复盘</a><a href="pre/index.html">盘前简报</a><a href="earn/index.html">业绩追踪</a></div>
 </div>
 <script>

diff --git a/pre/2026-11-18/2026-11-18-盘前.md b/pre/2026-11-18/2026-11-18-盘前.md
@@ -82,4 +82,8 @@
 
 ## 盘前预判
 
-> 8:30 由人工补充（数据版不含预判）。
+英伟达这份财报直接把预期打爆了：云业务积压订单 2.5 万亿美元、上调财测、宣布 1500 亿美元回购，盘后股价涨 5%，董事会还明确拒绝黄仁勋回归。但同一晚，美联储 12 月加息概率升到 96.8%——几乎等于确定。一边是 AI 需求爆表，一边是资金成本铁定抬升，A 股算力链今天必须选边站。
+
+- **算力链是高开高走还是借利好出货**：9:45 前中际旭创、新易盛涨超 3% → 英伟达财报利好真传导，光模块可以跟；若高开后快速翻绿，说明是借财报出货，反弹就是减仓机会
+- **跌停家数能不能见顶**：9:45 前跌停家数回落到 40 家以内（昨天 67 家） → 连续三天的恐慌开始收敛，可以试探性低吸；若仍停在 60 家以上，说明流动性危机没结束，继续观望
+- **半导体设备材料能不能接力**：9:45 前半导体设备、材料板块出现 3 家以上涨停 → 中信建投「设备材料零部件业绩加速」的研报被资金采信，可以从光模块往上游设备扩散；不足 3 家说明研报只是研报
